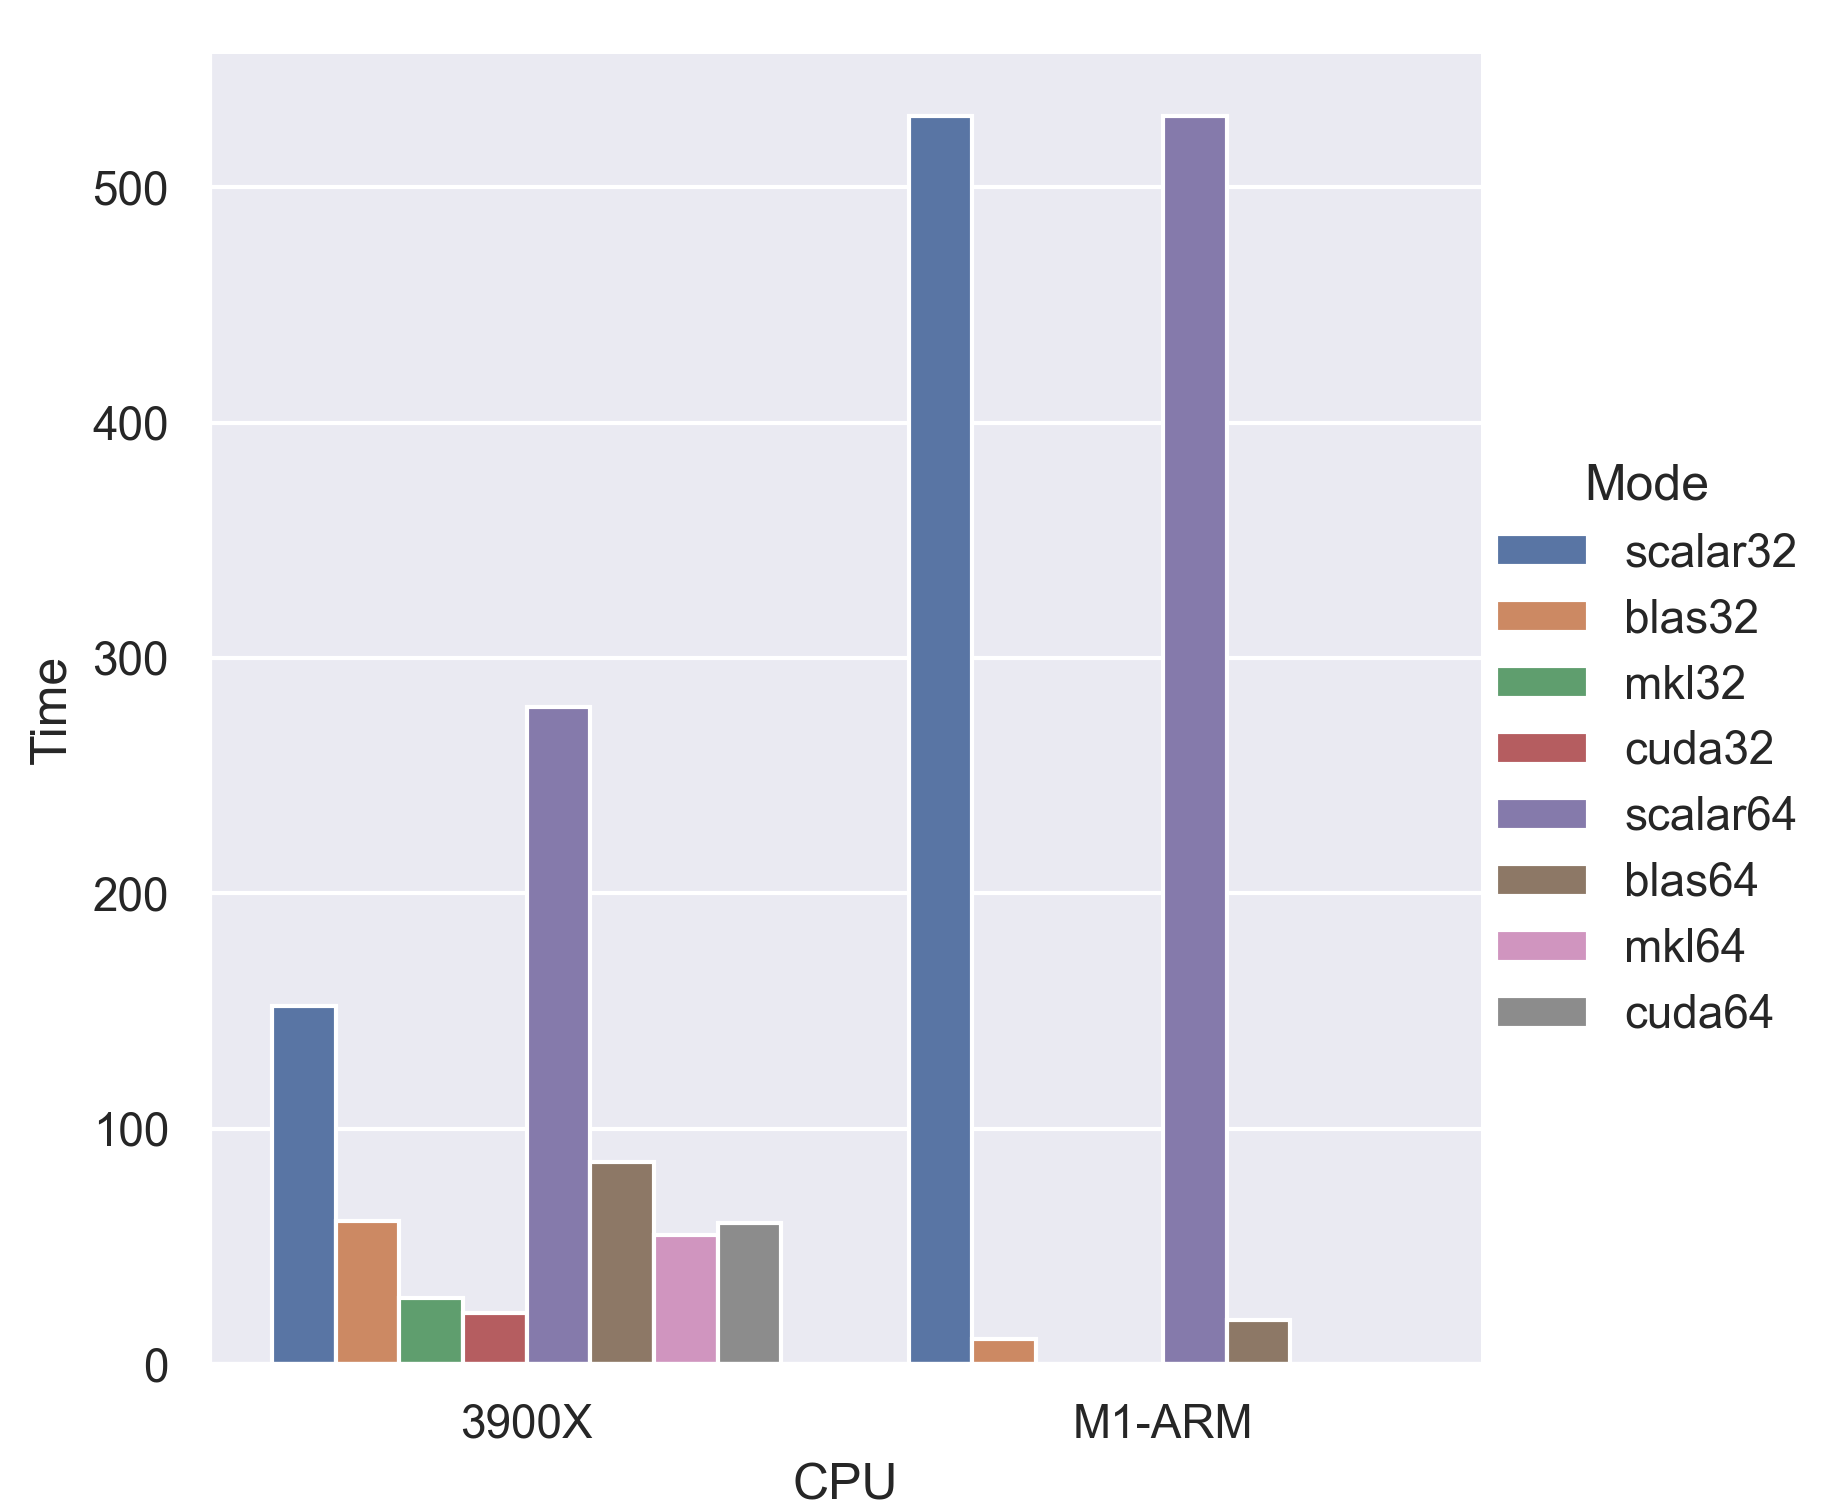
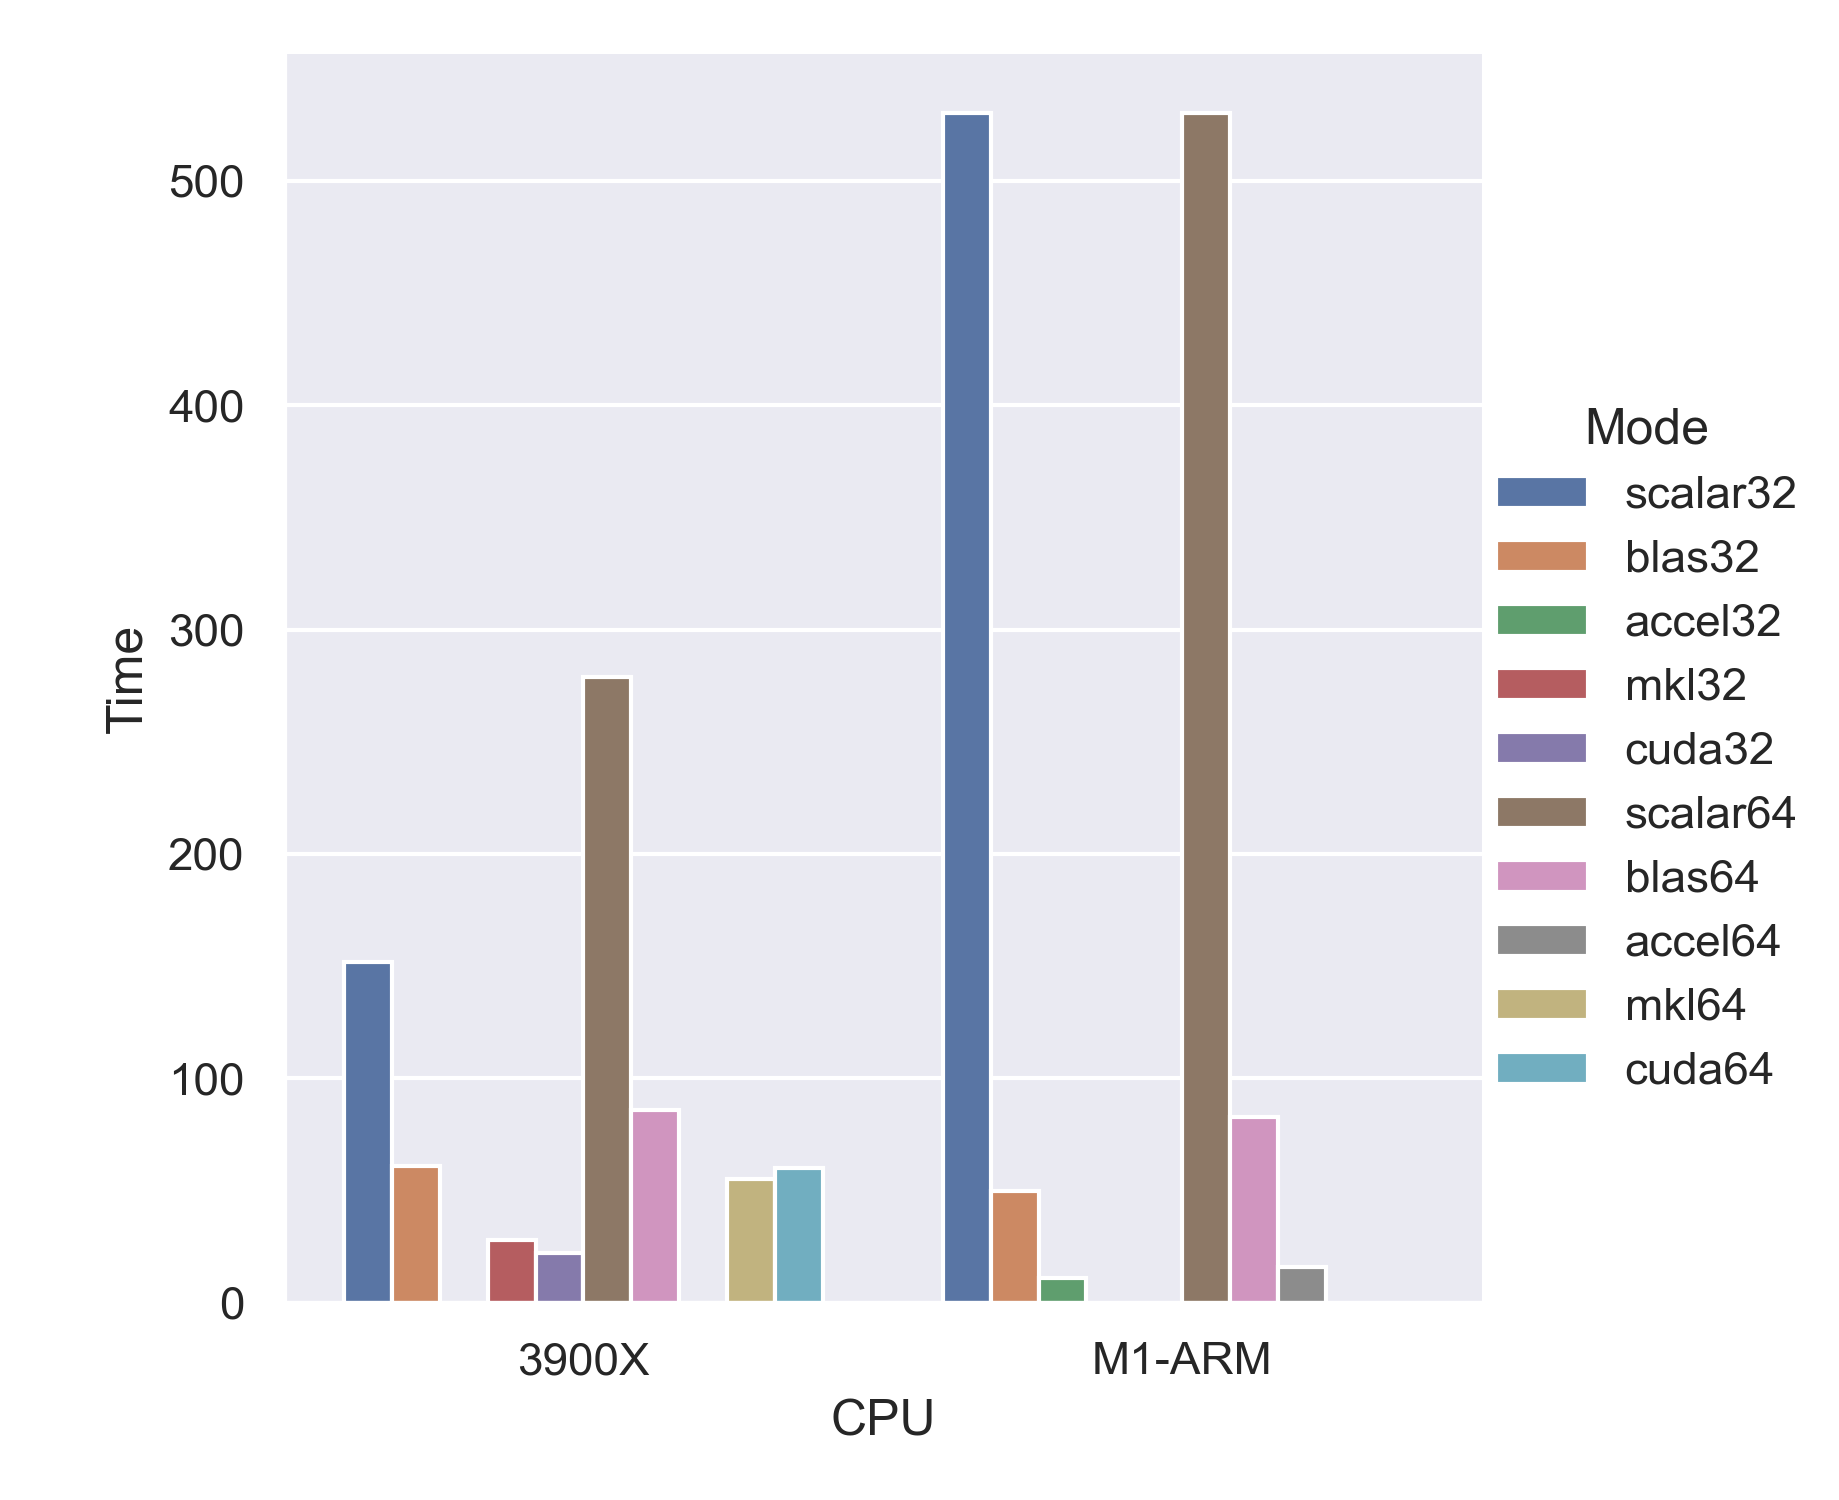
open blas on M1, Python install notes (https://github.com/neurolabusc/AppleSiliconForNeuroimaging/issues/2)

diff --git a/main_mmul.cpp b/main_mmul.cpp
@@ -1,5 +1,5 @@
 #undef DT32
-#define DT32 //<- This should be the ONLY difference between core32 and core64!
+//#define DT32 //<- This should be the ONLY difference between core32 and core64!
 
 #ifdef DT32
 	#define flt float
@@ -21,7 +21,7 @@ The test simulates the inner loop for General Linear Model t-tests, which are co
 
 To compile on MacOS: M1 MacBook Air
 
-g++ -O3 -o tst main_mmul.cpp -framework Accelerate -target arm64-apple-macos11 -mmacosx-version-min=11.0 -I/Library/Developer/CommandLineTools/SDKs/MacOSX11.1.sdk/System/Library/Frameworks/Accelerate.framework/Versions/A/Frameworks/vecLib.framework/Versions/A/Headers
+g++ -O3 -o tst main_mmul.cpp -DDSP -framework Accelerate -target arm64-apple-macos11 -mmacosx-version-min=11.0 -I/Library/Developer/CommandLineTools/SDKs/MacOSX11.1.sdk/System/Library/Frameworks/Accelerate.framework/Versions/A/Frameworks/vecLib.framework/Versions/A/Headers
 export VECLIB_MAXIMUM_THREADS=1
 ./tst
 matrix multiplication 10 repetitions 64-bit
@@ -33,6 +33,23 @@ matrix multiplication 10 repetitions 32-bit
 mmul: min/mean	530	530	ms
 mmulBLAS: min/mean	11	11	ms
 mmulDSP: min/mean	11	11	ms
+differences 36.8648%, max difference 1.14441e-05
+
+One may consider to use openblas
+Be aware that NumPy notes "Accelerate is buggy, disallow it"
+  https://github.com/numpy/numpy/blob/3dbf5ce5fdbc996e8abb6929a219689cf8c18e69/numpy/core/setup.py#L408
+
+export ARCHFLAGS='-arch arm64'
+brew install -s openblas
+c++ -O3 main_mmul.cpp -lblas -o tst -L/opt/homebrew/opt/openblas/lib -I/opt/homebrew/opt/openblas/include
+./tst
+matrix multiplication 10 repetitions 64-bit
+mmul: min/mean	529	531	ms
+mmulBLAS: min/mean	83	90	ms
+differences 36.8881%, max difference 2.13163e-14
+matrix multiplication 10 repetitions 32-bit
+mmul: min/mean	530	530	ms
+mmulBLAS: min/mean	50	57	ms
 differences 36.8648%, max difference 1.14441e-05
 
 To compile on Ubuntu: Ryzen 3900X
@@ -92,7 +109,7 @@ differences 36.9856%, max difference 1.14441e-05
 #include <stdio.h>
 #include <stdlib.h>
 #include <stdint.h>
-#ifdef __APPLE__
+#ifdef DSP //Apple's accelerate
 	#include <vDSP.h>
 #endif
 #ifdef GSL
@@ -281,7 +298,7 @@ void tst_mmul(int reps) {
 	long sumBLAS = 0.0;
 	for (int64_t i = 0; i < reps; i++) {
 		double startTime = clockMsec();
-		#ifdef __APPLE__ 
+		#ifdef DSP
 			#ifdef DT32
 				vDSP_mmul(a, 1, b, 1, cDSP, 1, m, n, p);
 				//vDSP_svesq(a, 1, &ssDSP, m * n);
@@ -311,7 +328,7 @@ void tst_mmul(int reps) {
 	}
 	printf("mmul: min/mean\t%ld\t%ld\tms\n", mn, sum/reps);
 	printf("mmulBLAS: min/mean\t%ld\t%ld\tms\n", mnBLAS, sumBLAS/reps);
-	#ifdef __APPLE__ 
+	#ifdef DSP 
 	printf("mmulDSP: min/mean\t%ld\t%ld\tms\n", mnDSP, sumDSP/reps);	
 	#endif
 	//check results
@@ -319,7 +336,7 @@ void tst_mmul(int reps) {
 	flt mxDiff = 0.0;
 	for (size_t i = 0; i < (m * n); i++) {
 		#ifdef dbug
-			#ifdef __APPLE__ 
+			#ifdef DSP
 			printf("%lu %g %g %g\n", i,c[i], cBLAS[i], cDSP[i]);
 			#else
 			printf("%lu %g %g\n", i,c[i], cBLAS[i]);

diff --git a/simd_mmul_graph.py b/simd_mmul_graph.py
@@ -9,10 +9,9 @@ import seaborn as sns
 import matplotlib.pyplot as plt
 #MacBook Air M1
 #Ubuntu 3900X
-df = pd.DataFrame({'CPU': ['3900X','3900X','3900X','3900X','3900X','3900X','3900X','3900X','M1-ARM','M1-ARM','M1-ARM','M1-ARM'],
-					'Mode': ['scalar32','blas32','mkl32','cuda32','scalar64','blas64','mkl64','cuda64','scalar32','blas32','scalar64','blas64'],
-					'Time': [152, 61, 28, 22, 279, 86, 55, 60, 530, 11, 530, 19]})
-
+df = pd.DataFrame({'CPU': ['3900X','3900X','3900X','3900X','3900X','3900X','3900X','3900X','3900X','3900X','M1-ARM','M1-ARM','M1-ARM','M1-ARM','M1-ARM','M1-ARM'],
+					'Mode': ['scalar32','blas32','accel32','mkl32','cuda32','scalar64','blas64','accel64','mkl64','cuda64','scalar32','blas32','accel32','scalar64','blas64','accel64'],
+					'Time': [152, 61, 0, 28, 22, 279, 86, 0, 55, 60, 530, 50, 11, 530, 83, 16]})
 
 sns.set()
 sns.catplot(x="CPU", y="Time", hue="Mode", kind="bar", data=df)

diff --git a/README.md b/README.md
@@ -10,7 +10,8 @@ Unless you are a developer, I would strongly discourage scientists from purchasi
 
 The infrastructure scientists depend on is not yet available for this architecture. Here are some of the short term limitations:
 
- - Scientists using the popular [R](https://developer.r-project.org/Blog/public/2020/11/02/will-r-work-on-apple-silicon/index.html), [Julia](https://github.com/JuliaLang/julia/issues/36617) and Python languages require an open source [Fortran compiler](https://walkingrandomly.com/?p=6696). While Python is available on Apple Silicon, tools like Numpy and [Scipy](https://github.com/scipy/scipy/wiki/Dropping-support-for-Accelerate) require Fortran compilation. One solution is to install a Python distribution like [miniconda](https://docs.conda.io/en/latest/miniconda.html) and run its pip installer to add Intel packages (the scripts included in this repository require numpy, pandas, and seaborn). There is a delay when one first imports one of these libraries while they are translated. Subsequently, the translated Python libraries appear to run well.
+ - Scientists using the popular [R](https://developer.r-project.org/Blog/public/2020/11/02/will-r-work-on-apple-silicon/index.html), [Julia](https://github.com/JuliaLang/julia/issues/36617) and Python languages require an open source [Fortran compiler](https://walkingrandomly.com/?p=6696).
+ - While Python is available on Apple Silicon, tools like Numpy and [Scipy](https://github.com/scipy/scipy/wiki/Dropping-support-for-Accelerate) require Fortran compilation. One solution is to install a Python distribution like [miniconda](https://docs.conda.io/en/latest/miniconda.html) and run its pip installer to add Intel packages (the scripts included in this repository require numpy, pandas, and seaborn). There is a delay when one first imports one of these libraries while they are translated.  Subsequently, the translated Python libraries appear to run well. Details on experimental native support for these libraries are noted in the NiBabel section below.
  - While Apple's C Clang compiler generates fast native code, many scientific tools will need to [wait](https://www.theregister.com/2020/11/18/apple_silicon_m1_mac_compatibility/) until gcc, golang and gFortran compilers are available.
  - Tools like VirtualBox, VMware Fusion, Boot Camp and Parallels do not yet support Apple Silicon. Many users rely on these tools for using Windows and Linux programs on their macOS computers.
  - Docker does not [support Apple Silicon](https://www.docker.com/blog/apple-silicon-m1-chips-and-docker/). These containers are popular with many neuroimaging tools. Docker provides an [experimental release](https://docs.docker.com/docker-for-mac/apple-m1/), but it is restricted to natively running ARM64 images, while most popular neuroimaging docker tools are built for x86-64 targets.
@@ -94,7 +95,9 @@ The second test examines the GPU compute performance, looking at generation of t
 
 [NiBabel](https://nipy.org/nibabel/) is a collection of neuroimaging related Python scripts and utilities. It provides [benchmarks](https://nipy.org/nibabel/reference/nibabel.benchmarks.html) for performance and regression testing. While both Python 2.7 and 3 are provided with M1 computers, core Python libraries like numpy and scipy are not yet available as natively compiled code. For these tests, [miniconda](https://docs.conda.io/en/latest/miniconda.html) was installed, and the miniconda `pip` program was used to install x86-64 libraries (numpy, nibabel, pandas, seaborn). Rosetta2 seamlessly translated the x86-64 code the first time the libraries were launched. While native performance will surely be better, here we test the available translations.
 
-An experimental [Python version 3.9.1rc1 that natively supports the M1](https://github.com/conda-forge/miniforge#download) including native numpy (`conda install numpy`) has been released. Note that many Python libraries do not yet support this hardware, so in practice you will have to disable this version for many tasks (`conda deactivate`). This native library performed faster than the translated library in all but one test (the finite_range test is [reliably slower](https://github.com/numpy/numpy/issues/17989)). While most native numpy tests complete, there [are still issues](https://github.com/numpy/numpy/issues/17964) as well as opportunity for architecture-specific optimizations.
+An experimental [Python version 3.9.1rc1 that natively supports the M1](https://github.com/conda-forge/miniforge#download) including native numpy (`conda install numpy`) has been released. This native library performed faster than the translated library in all but one test (the finite_range test is [reliably slower](https://github.com/numpy/numpy/issues/17989)). While most native numpy tests complete, there [are still issues](https://github.com/numpy/numpy/issues/17964) as well as opportunity for architecture-specific optimizations.
+
+Note that many Python libraries do not yet support this hardware, so in practice you will have to disable this version for many tasks (`conda deactivate`). It does seem like packages that do not install with `pip` can be installed using commands of the form [`conda install -c menpo opencv`](https://github.com/neurolabusc/AppleSiliconForNeuroimaging/issues/2). Informally, running functions installed in this manner seem particularly slow the first time they are used, suggesting these may be using translated libraries. 
 
 The graph shows the geometric mean for the benchmarks with lower values indicating faster performance. 
  
@@ -152,11 +155,13 @@ The graph shows milliseconds to compute square-root for 808704000 voxels, with l
 
 ![simd](simd.png)
 
-Matrix computations form the basis of many stages of neuroimaging processing and analysis. The M1 also includes [Apple Matrix Co-processors](https://nod.ai/comparing-apple-m1-with-amx2-m1-with-neon/) (AMX) which provide [512-bit double-precision and 1024-bit single-precision](https://gist.github.com/dougallj/7a75a3be1ec69ca550e7c36dc75e0d6f) SIMD instructions. While poorly documented, these instructions can be accessed via the Accelerate framework including [vecLib](https://github.com/danielchalef/openblas-benchmark-m1), vImage, libBLAS, libBNNS, vDSP and LAPACK. The double-precision performance is particularly interesting, as Metal currently only supports single-precision. Furthermore, the [Metal MPSMatrixMultiplication](https://developer.apple.com/documentation/metalperformanceshaders/mpsmatrixmultiplication](https://github.com/neurolabusc/Metal) function has a series of [limitations](https://github.com/neurolabusc/Metal) that make it unsuitable for many neuroimaging applications. Fortunately, [AMX outperforms Metal](https://github.com/neurolabusc/Metal) for single precision, provides double precision support, and does not carry the crippling limitations. Since Apple uses the same function names (e.g. cblas_dgemm) as other Basic Linear Algebra Subprograms (BLAS) libraries available for Windows and Unix, one can exploit this new hardware by simpling compiling software linked to the Apple Accelerate framework.  
+Matrix computations form the basis of many stages of neuroimaging processing and analysis. The M1 includes dedicated hardware called the [Apple Matrix Co-processors](https://nod.ai/comparing-apple-m1-with-amx2-m1-with-neon/) (AMX) which provides [512-bit double-precision and 1024-bit single-precision](https://gist.github.com/dougallj/7a75a3be1ec69ca550e7c36dc75e0d6f) SIMD instructions. While poorly documented, these instructions can be accessed via the Accelerate framework including [vecLib](https://github.com/danielchalef/openblas-benchmark-m1), vImage, libBLAS, libBNNS, vDSP and LAPACK. The double-precision performance is particularly interesting, as Metal currently only supports single-precision. Since Apple uses the same function names (e.g. cblas_dgemm) as other Basic Linear Algebra Subprograms (BLAS) libraries available for Windows and Unix, one can exploit this new hardware by simpling compiling software linked to the Apple Accelerate framework. However, developers should be aware that not all Accelerate functions perform identically to their BLAS counterparts, explaining why NumPy [refuses to link to this library](https://github.com/numpy/numpy/blob/3dbf5ce5fdbc996e8abb6929a219689cf8c18e69/numpy/core/setup.py#L408).  
+
+Apple also provides the GPU-based [Metal MPSMatrixMultiplication](https://developer.apple.com/documentation/metalperformanceshaders/mpsmatrixmultiplication) function. However, this function has a series of [limitations](https://github.com/neurolabusc/Metal) that make it unsuitable for many neuroimaging applications. Fortunately, [AMX outperforms Metal](https://github.com/neurolabusc/Metal) for single precision, provides double precision support, and does not carry the crippling limitations.
 
 Here we conduct a simple test of matrix multiplication (source code main_mmul.cpp), using a dataset designed to mimic the permutation thresholding provided by [PALM](https://github.com/andersonwinkler/PALM/blob/900e47dfd8e782afed22197243cd57df4e43963a/palm_partition.m#L1) and [NiiStat](https://github.com/neurolabusc/NiiStat/blob/79e8821480c6d0976bd7f8076f52b473a110b573/nii_stat_core.m#L677). Specifically, we calculate the matrix multiplication `C[m][n] = A[m][p] * B[p][n]` where `m = 485776, n = 16, p = 120`. This simulates the main computation for a permutation thresholded general linear model analysis (specifically, a voxel-based morphometry analysis where 485776 voxels are in the brain, there are 120 participants and a model with one effect of interest and 15 nuisance regressors). Note that this computation will be conducted thousands of times.
 
-The graph below shows time to complete this computation, with lower values illustrating better performance. The `32` and `64` labels show 32-bit single-precision and 64-bit double precision compuation. The `scalar` values is the [popular and intuitive C solution](https://github.com/afni/afni/blob/dab76581b2ddef36dd4d5974f122e9759732c5c5/src/matrix.c#L696) without [any](https://www.cs.cornell.edu/~bindel/class/cs5220-s10/slides/lec03.pdf) common [optimizations](http://apfel.mathematik.uni-ulm.de/~lehn/sghpc/gemm/). The `blas` value shows performance for the optimized `cblas_dgemm()` function (using [libblas](https://packages.ubuntu.com/bionic/libblas-dev) for the 3900X and [Apple's Accelerate framework](https://developer.apple.com/documentation/accelerate/1513282-cblas_dgemm?language=objc) for the M1). Ryzen performance is also provided for the free but not open-source Intel [Math Kernel Library](https://en.wikipedia.org/wiki/Math_Kernel_Library) (`MKL`) and for the [NVidia CUDA](https://solarianprogrammer.com/2012/05/31/matrix-multiplication-cuda-cublas-curand-thrust/) (`cuda`) library to use the GTX 1080 Ti graphics card (see the cuda_mmul.cu source code). The timings for CUDA include the substantial memory transfer times between the CPU and GPU memory. For completeness, the included source code also evaluates the [Accelerate framework's](https://developer.apple.com/documentation/accelerate/vdsp) `vDSP_mmulD()` function, but this is omitted from the graph as it is just as fast as `cblas_dgemm()`. Finally, the source code reports the maximum difference observed between the `scalar` and `blas` results, in this case a negligible 2e-14 (one does not expect identical results, as optimized methods can use fused multiply-add operations that [reduce rounding errors](https://stackoverflow.com/questions/15933100/how-to-use-fused-multiply-add-fma-instructions-with-sse-avx)).
+The graph below shows time to complete this computation, with lower values illustrating better performance. The `32` and `64` labels show 32-bit single-precision and 64-bit double precision compuation. The `scalar` values is the [popular and intuitive C solution](https://github.com/afni/afni/blob/dab76581b2ddef36dd4d5974f122e9759732c5c5/src/matrix.c#L696) without [any](https://www.cs.cornell.edu/~bindel/class/cs5220-s10/slides/lec03.pdf) common [optimizations](http://apfel.mathematik.uni-ulm.de/~lehn/sghpc/gemm/). The `blas` value shows performance for the optimized `cblas_dgemm()` function (using [openblas](https://www.openblas.net)). The `accel` refers to Apple's Accelerate framework ([`cblas_dgemm()`](https://developer.apple.com/documentation/accelerate/1513282-cblas_dgemm?language=objc) and [`vDSP_mmulD()`](https://developer.apple.com/documentation/accelerate/vdsp) perform identiclly). Ryzen values are also shown for the free but not open-source Intel [Math Kernel Library](https://en.wikipedia.org/wiki/Math_Kernel_Library) (`MKL`) and [NVidia CUDA](https://solarianprogrammer.com/2012/05/31/matrix-multiplication-cuda-cublas-curand-thrust/) (`cuda`) libraries. The CUDA function uses the GTX 1080 Ti graphics card (see the cuda_mmul.cu source code). The timings for CUDA include the substantial memory transfer times between the CPU and GPU memory. Finally, the source code reports the maximum difference observed between the `scalar` and `blas` results, with negligible errors on the order of 1e-14 (one does not expect identical results, as optimized methods can use fused multiply-add operations that [reduce rounding errors](https://stackoverflow.com/questions/15933100/how-to-use-fused-multiply-add-fma-instructions-with-sse-avx)). The poor scalar performance of the M1 relative to the Ryzen presumably reflects the smaller cache, which can be addressed through the optimzation tricks of the dedicated libraries. The AMX appears very capable.
 
  ![simd_mmul](simd_mmul.png)
 
